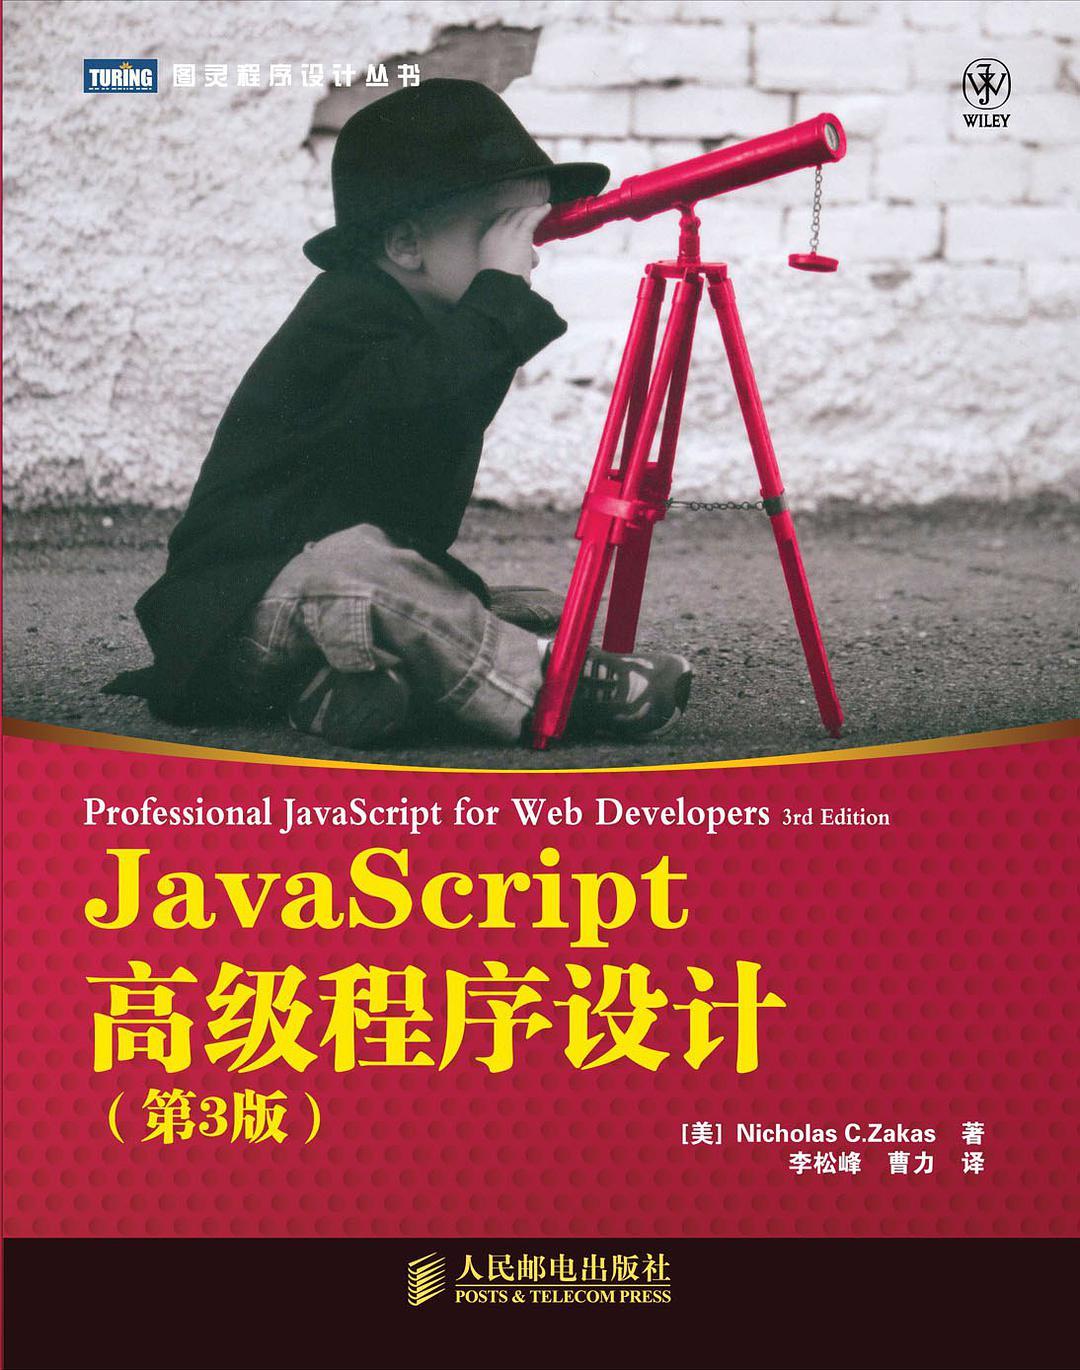
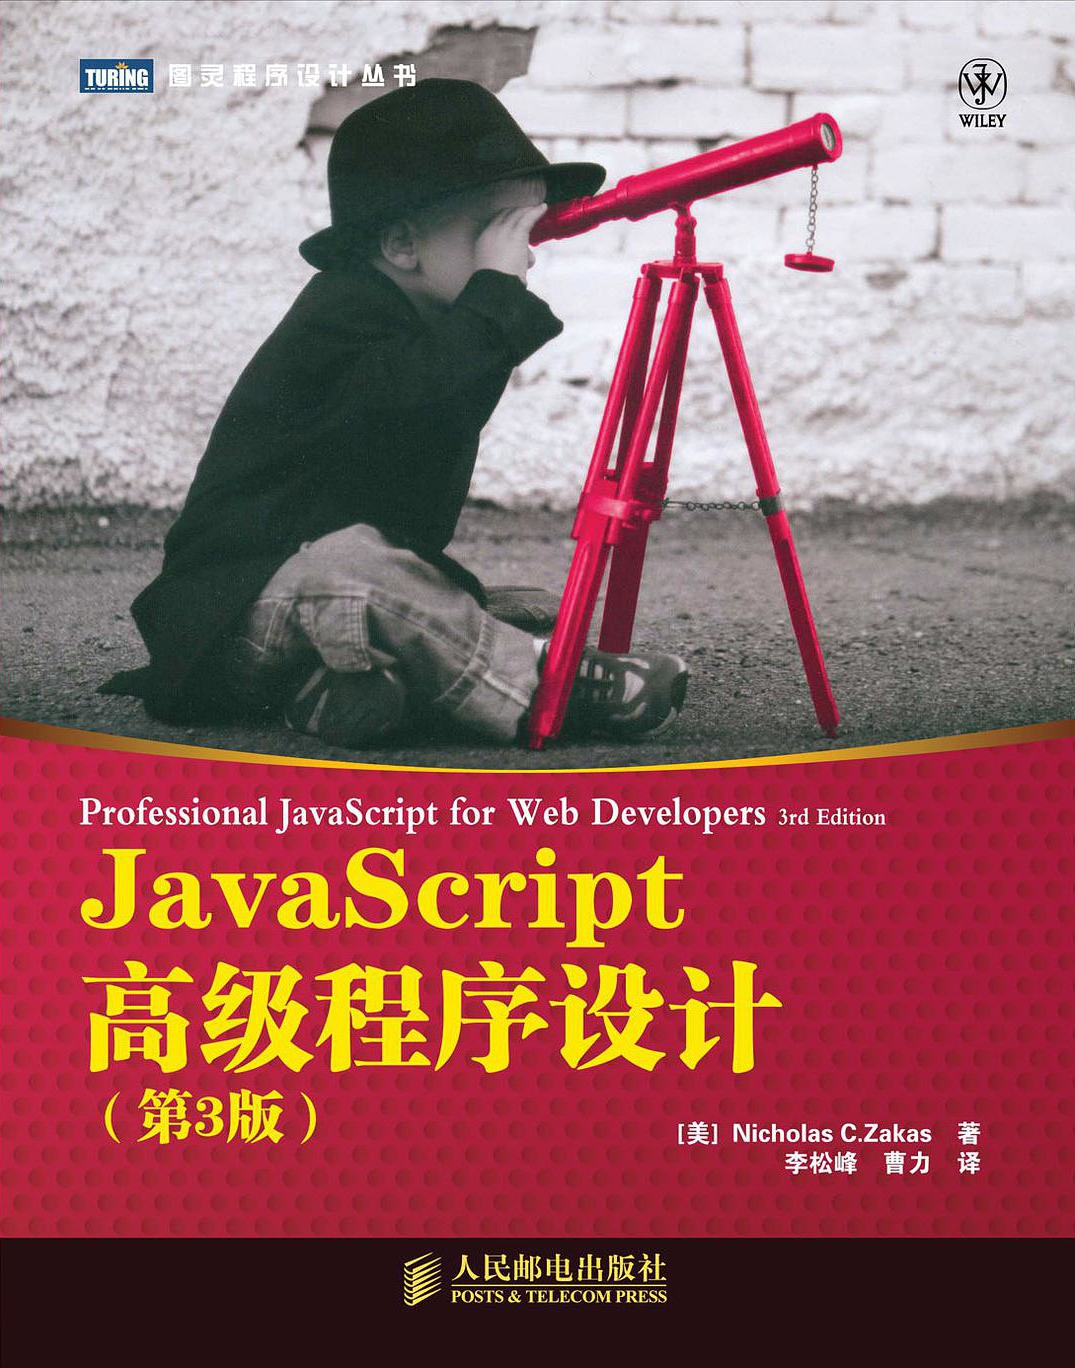
去掉图书中多余的阴影边框

diff --git a/style.css b/style.css
@@ -41,6 +41,7 @@ ul li {
     list-style: none;
 }
 a {
+    text-decoration: none;
     cursor: pointer;
 }
 .cover {
@@ -613,8 +614,8 @@ a {
 /*** BOOK ***/
 .book {
 	position: relative;
-	width: 160px; 
-	height: 220px;
+	width: 120px; 
+	height: 165px;
 	perspective: 1000px;
 	transform-style: preserve-3d;
 }
@@ -645,7 +646,9 @@ a {
 	user-select: none;
     transform: translateZ(2px);
     background-color: #EEE;
-	backface-visibility: hidden;
+    backface-visibility: hidden;
+    background: url(booksPic/telescope.jpg) no-repeat;
+    background-size: 100% 100%;
 }
 .hardcover-front li:last-child {
     transform: rotateY(180deg) translateZ(2px);
@@ -712,7 +715,23 @@ a {
 }
 .page > li:nth-child(4) {
 	transform: rotateY(-34deg);
-	transition-duration: 0.5s;
+    transition-duration: 0.5s;
+}
+.page > li:nth-child(2) a {
+    position: absolute;
+    top: 50%;
+    left: 50%;
+    transform: translate(-50%, -50%);
+    width: 80px;
+    height: 25px;
+    padding-top: 2px;
+    border: 2px solid;
+    color: #666;
+    font-size: 10px;
+    text-align: center;
+}
+.page > li:nth-child(2) a:hover {
+    color: rgb(17, 105, 174);
 }
 .page > li:nth-child(5) {
 	transform: rotateY(-36deg);
@@ -720,21 +739,13 @@ a {
 }
 .hardcover-front li:first-child::after,
 .hardcover-front li:first-child::before,
-.hardcover-front li:last-child::after,
-.hardcover-front li:last-child::before,
-.hardcover-back li:first-child::after,
-.hardcover-back li:first-child::before,
-.hardcover-back li:last-child::after,
-.hardcover-back li:last-child::before,
 .book-spine li:first-child::after,
-.book-spine li:first-child::before,
-.book-spine li:last-child::after,
-.book-spine li:last-child::before {
+.book-spine li:first-child::before {
     content: '';
     position: absolute;
 	top: 0;
 	left: 0;
-	background: #AAC7D9;
+	background: red;
 }
 .hardcover-front li:first-child::after,
 .hardcover-front li:first-child::before,
@@ -743,49 +754,11 @@ a {
 	width: 4px;
 	height: 100%;
 }
-.hardcover-front li:last-child::after,
-.hardcover-front li:last-child::before,
-.hardcover-back li:first-child::after,
-.hardcover-back li:first-child::before,
-.hardcover-back li:last-child::after,
-.hardcover-back li:last-child::before {
-	width: 4px;
-	height: 160px;
-}
-.book-spine li:last-child::after,
-.book-spine li:last-child::before {
-	width: 4px;
-	height: 16px;
-}
-.hardcover-front li:first-child::after,
-.hardcover-back li:first-child::after {
-	transform: rotateY(90deg) translateZ(-2px) translateX(2px);
-}
-.hardcover-front li:first-child::before,
-.hardcover-back li:first-child::before {
-	transform: rotateY(90deg) translateZ(158px) translateX(2px);
-}
-.hardcover-front li:last-child::after,
-.hardcover-back li:last-child::after {
-	transform: rotateX(90deg) rotateZ(90deg) translateZ(80px) translateX(-2px) translateY(-78px);
-}
-.hardcover-back li:last-child::before,
-.hardcover-front li:last-child::before {
-	box-shadow: 5px -1px 80px 5px rgba(0, 0, 0, .5);
-	transform: rotateX(90deg) rotateZ(90deg) translateZ(-140px) translateX(2px) translateY(-78px);
-}
 .book-spine li:first-child::after {
 	transform: rotateY(90deg) translateZ(-2px) translateX(2px);
 }
 .book-spine li:first-child::before {
 	transform: rotateY(-90deg) translateZ(-12px);
-}
-.book-spine li:last-child::after {
-	transform: rotateX(90deg) rotateZ(90deg) translateZ(8px) translateX(2px) translateY(-6px);
-}
-.book-spine li:last-child::before {
-	box-shadow: 5px -1px 80px 5px rgba(0, 0, 0, .5);
-	transform: rotateX(90deg) rotateZ(90deg) translateZ(-210px) translateX(2px) translateY(-6px);
 }
 .book:hover > .hardcover-front {
 	transform: rotateY(-145deg) translateZ(0);

diff --git a/index.html b/index.html
@@ -434,7 +434,7 @@
                                 <ul class='page'>
                                     <li></li>
                                     <li>
-
+                                        <a href="#" title="visit on book.douban.com">DOUBAN</a>
                                     </li>
                                     <li></li>
                                     <li></li>
